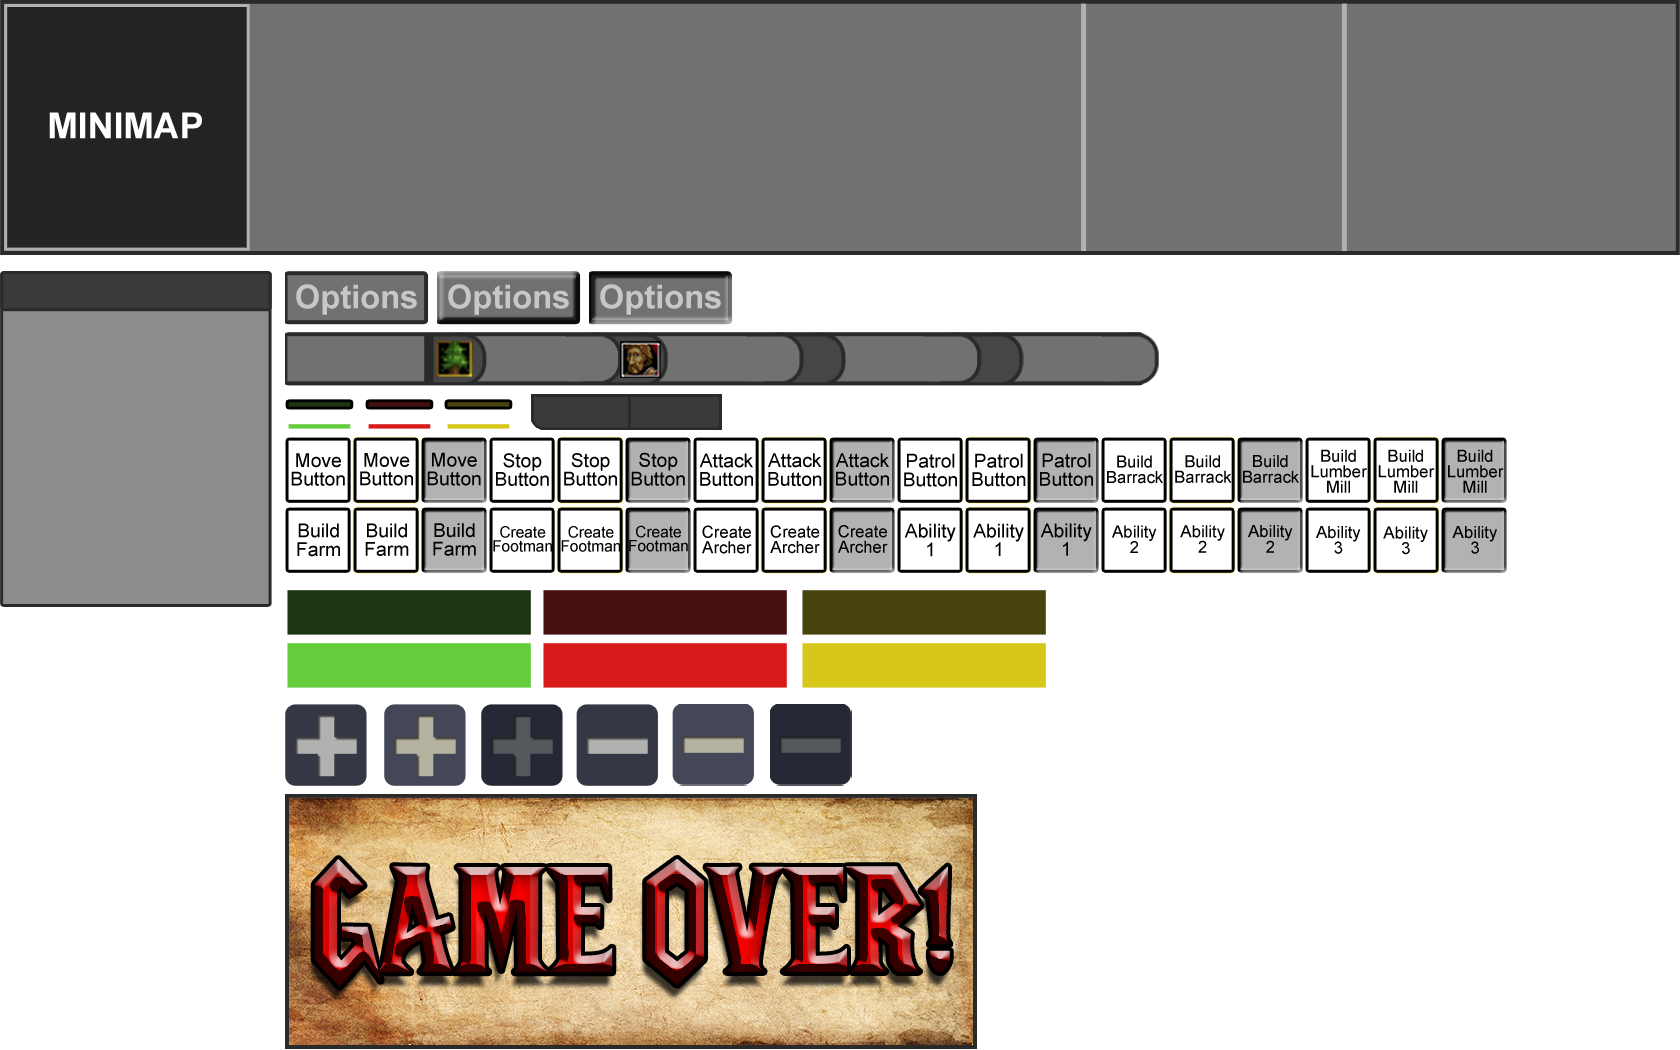
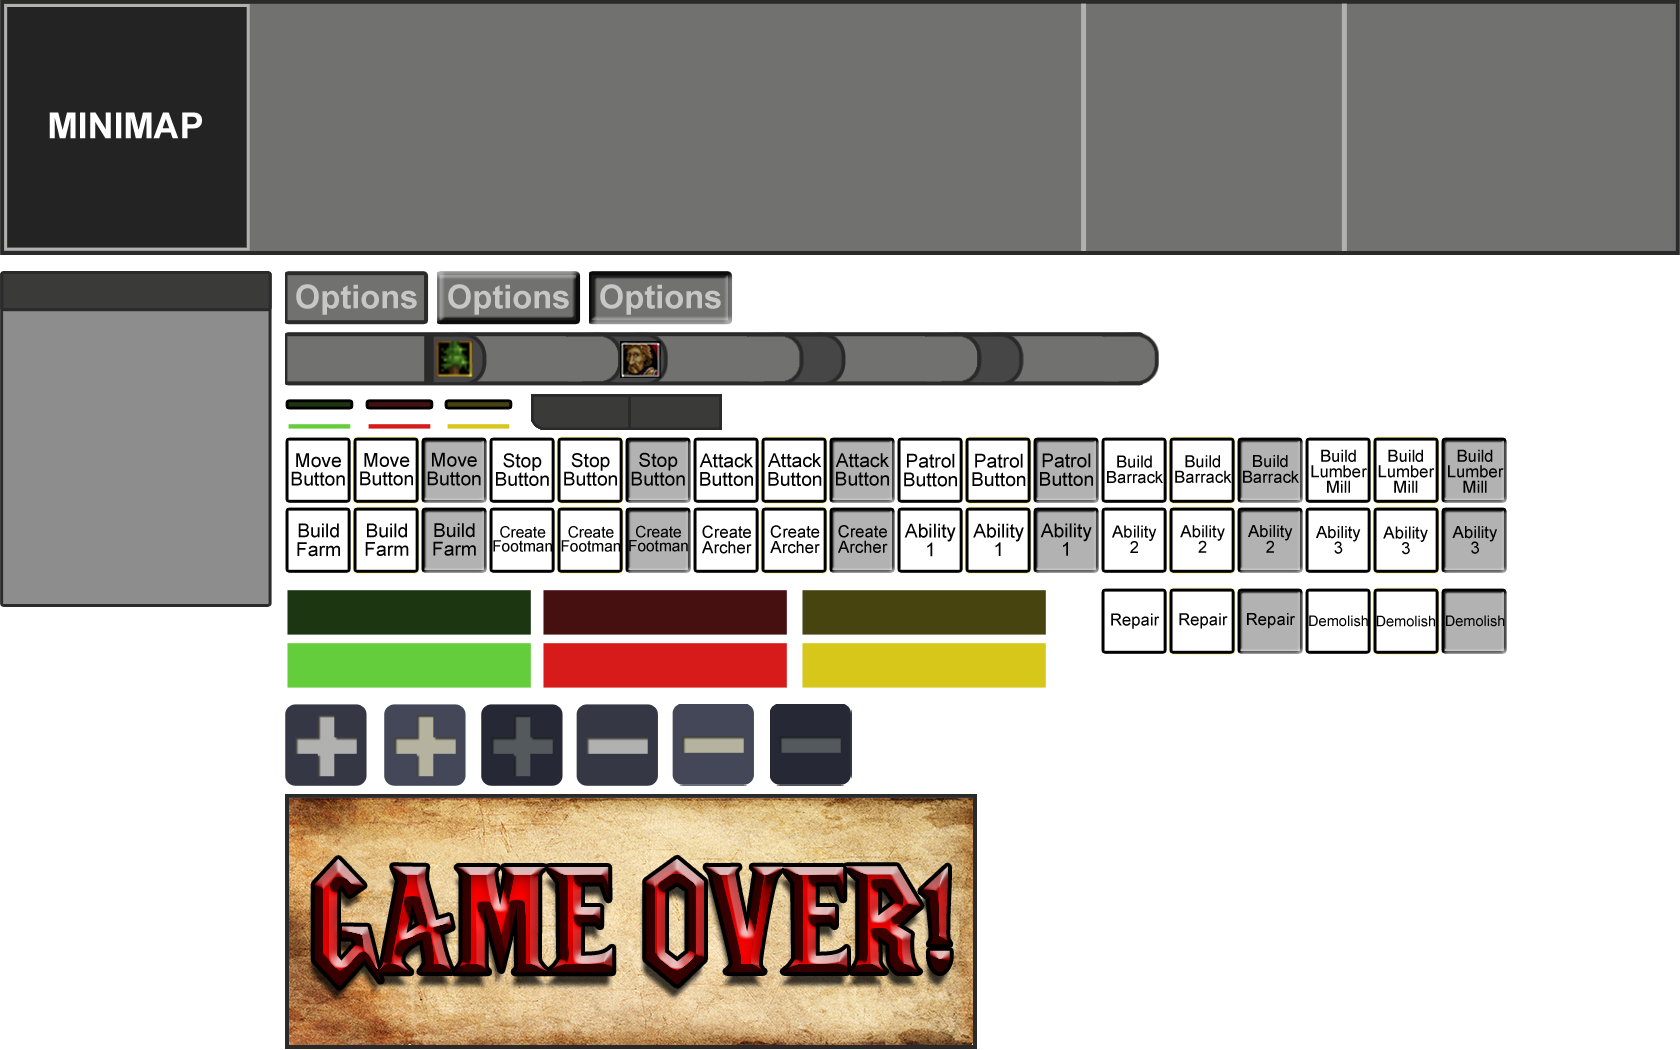
added demolish button

Changed region(s): [[0.65, 0.5486, 0.8976, 0.64]]

diff --git a/Motor2D/UI_IngameMenu.cpp b/Motor2D/UI_IngameMenu.cpp
@@ -18,6 +18,7 @@ buttons_offset({buttons_offsetX, buttons_offsetY})
 	selectionDisplay = new SelectionDisplay();
 	infoTable = new InfoTable();
 	window = new Window(texture, x, y, section, callback);
+	workers_title = new Text("Workers:", 1480, 815, App->font->fonts.front(), { 0,0,0,255 }, nullptr);
 	workers = new Text("", 1495, 865, App->font->fonts.front(), { 0,0,0,255 }, nullptr);
 }
 
@@ -26,6 +27,7 @@ IngameMenu::~IngameMenu()
 	RELEASE(window);
 	RELEASE(selectionDisplay);
 	RELEASE(infoTable);
+	RELEASE(workers_title)
 	RELEASE(workers);
 }
 
@@ -58,6 +60,7 @@ void IngameMenu::updateActionButtons()
 	{
 		if ((*it_b)->clickAction == ASSIGN_WORKER || (*it_b)->clickAction == UNASSIGN_WORKER) //HARDCODED
 			extraYvalue = 50;
+		else extraYvalue = 0;
 		(*it_b)->localPosition.x = firstButton_pos.x + (buttons_offset.x*counterX);
 		(*it_b)->localPosition.y = firstButton_pos.y + (buttons_offset.y*counterY) + extraYvalue;
 		(*it_b)->active = true;
@@ -93,8 +96,9 @@ void IngameMenu::BlitElement(bool use_camera)
 
 	//HARDCODED ?
 	//Blit workers on Lumber Mill
-	if (workers != nullptr && App->entitycontroller->selected_entities.size() > 0 && App->entitycontroller->selected_entities.front()->type == LUMBER_MILL)
+	if (workers_title != nullptr && workers != nullptr && App->entitycontroller->selected_entities.size() > 0 && App->entitycontroller->selected_entities.front()->type == LUMBER_MILL)
 	{
+		workers_title->BlitElement(use_camera);
 		int workers_num = ((Building*)App->entitycontroller->selected_entities.front())->workers_inside.size();
 		std::string text = std::to_string(workers_num) + '/' + std::to_string(MAX_VILLAGERS_LUMBERMILL);
 		workers->setText(text);

diff --git a/Motor2D/j1Gui.cpp b/Motor2D/j1Gui.cpp
@@ -770,10 +770,15 @@ void j1Gui::LoadActionButtonsDB(pugi::xml_node node)
 		button->clickAction = (actionType)actionButton.attribute("click_action").as_int(0);
 		button->releaseAction = (actionType)actionButton.attribute("release_action").as_int(0);
 		pugi::xml_node info = actionButton.child("popUp").child("Info");
+		pugi::xml_node cost_node = actionButton.child("popUp").child("Cost");
 		if (info && info.attribute("cost").as_bool())
 		{
 			Cost cost = App->entitycontroller->getCost((Type)info.attribute("type").as_int());
 			button->costDisplay = createCostDisplay(info.attribute("text").as_string(), cost.wood_cost, cost.gold_cost, cost.oil_cost, cost.worker_cost);
+		}
+		else if (info && cost_node)
+		{
+			button->costDisplay = createCostDisplay(info.attribute("text").as_string(), cost_node.attribute("wood").as_int(0), cost_node.attribute("gold").as_int(0), cost_node.attribute("oil").as_int(0), cost_node.attribute("workers").as_int(0));
 		}
 		else if (info)
 		{

diff --git a/Motor2D/Building.cpp b/Motor2D/Building.cpp
@@ -93,7 +93,6 @@ void Building::Destroy()
 	ex_state = DESTROYED;
 	App->entitycontroller->selected_entities.remove(this);
 	current_sprite = &sprites[RUIN];
-	
 
 	switch (type)
 	{
@@ -123,6 +122,7 @@ void Building::Destroy()
 	}
 
 	timer.Start();
+	App->gui->entityDeleted(this);
 }
 
 
@@ -202,8 +202,17 @@ void Building::RepairBuilding()
 	}
 }
 
-
-
+void Building::DemolishBuilding()
+{
+	if (type != FARM)
+	{
+		while (workers_inside.size() > 0)
+		{
+			App->entitycontroller->HandleWorkerAssignment(false, this);
+		}
+	}
+	current_HP = 0;
+}
 
 void Building::Draw(float dt)
 {

diff --git a/Motor2D/j1ActionsController.cpp b/Motor2D/j1ActionsController.cpp
@@ -110,6 +110,16 @@ bool j1ActionsController::Update(float dt)
 			}
 			doingAction = false;
 			break;
+		case DEMOLISH_BUILDING:
+			if (!App->entitycontroller->selected_entities.empty())
+			{
+				if (((Building*)*App->entitycontroller->selected_entities.begin())->ex_state == OPERATIVE)
+				{
+					((Building*)*App->entitycontroller->selected_entities.begin())->DemolishBuilding();
+				}
+			}
+			doingAction = false;
+			break;
 		}
 		
 	}

diff --git a/Motor2D/UI_IngameMenu.h b/Motor2D/UI_IngameMenu.h
@@ -35,6 +35,7 @@ public:
 	Window* window = nullptr;
 	iPoint firstButton_pos = { 0,0 };
 	iPoint buttons_offset = { 0,0 };
+	Text* workers_title = nullptr;
 	Text* workers = nullptr;
 	std::list<Button*> actionButtons; //Loading the activated buttons
 

diff --git a/Motor2D/j1ActionsController.h b/Motor2D/j1ActionsController.h
@@ -20,7 +20,8 @@ enum actionType
 	USE_ABILITY1,
 	USE_ABILITY2,
 	USE_ABILITY3,
-	REPAIR_BUILDING
+	REPAIR_BUILDING,
+	DEMOLISH_BUILDING
 };
 
 class j1ActionsController : public j1Module

diff --git a/Motor2D/Building.h b/Motor2D/Building.h
@@ -44,6 +44,7 @@ public:
 	void CalculateResourceProduction();
 	void HandleWorkerProduction();
 	void RepairBuilding();
+	void DemolishBuilding();
 
 	void Destroy();
 };
